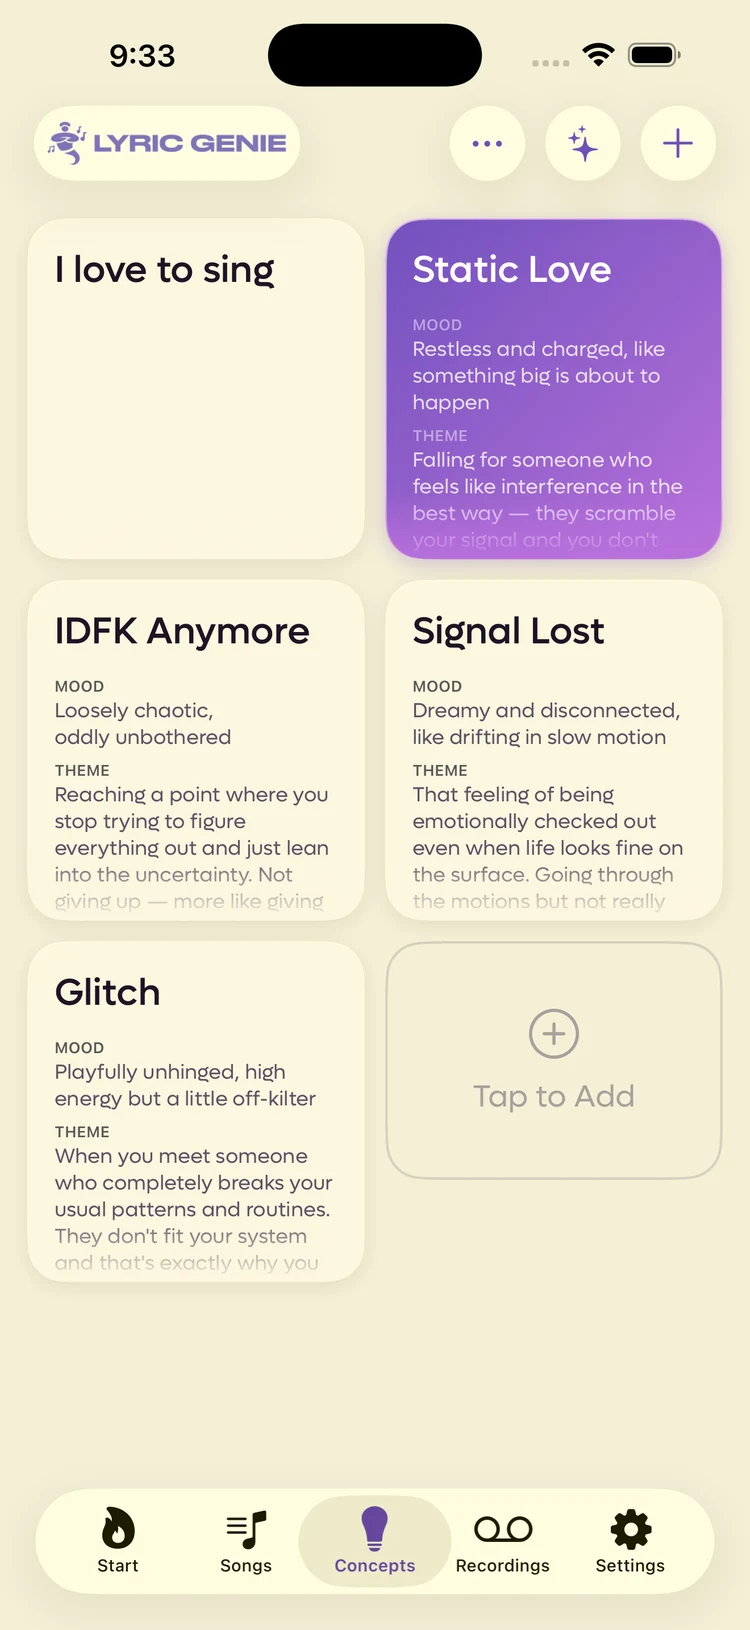
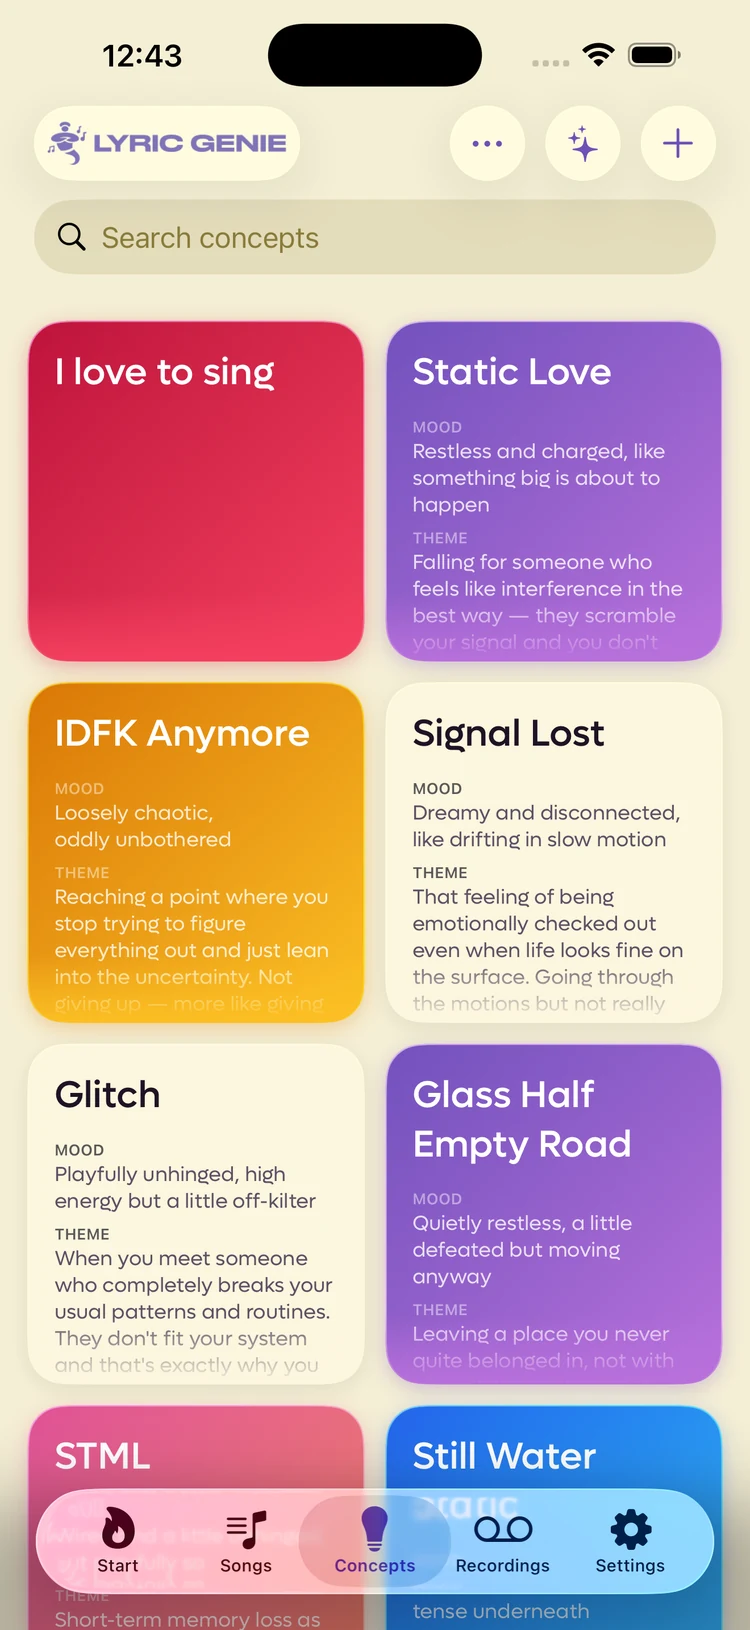
docs: Freestyle access points, Import, RhymeGold, concept colours

diff --git a/public/docs/objects/concepts/index.html b/public/docs/objects/concepts/index.html
@@ -104,23 +104,23 @@ of real work in progress.</p>
 <h2 id="writing-one">Writing one<a class="hanchor" href="#writing-one" aria-label="Link to this section">#</a></h2>
 <p>Tap <strong>+</strong> on the Concepts tab and a blank card appears in place, with the four
 fields on it.</p>
-<figure class="fig" style="max-width:min(23rem, 330px)">
+<figure class="fig" style="max-width:min(23rem, 375px)">
   <div class="fig-shot">
-    <img src="/docs/img/concept-new.png" alt="A new blank concept card with Title, Mood, Theme and Similar Artists fields, an X to cancel and a tick to save" width="330" height="717" loading="lazy" decoding="async">
-    <span class="fig-mark" style="left:73%;top:56.5%;width:47%;height:5%;aspect-ratio:auto" aria-label="Only the title is required"><span class="fig-badge">1</span></span>
+    <img src="/docs/img/concept-new.webp" alt="A new blank concept card in orange, with Title, Mood, Theme and Similar Artists fields, an X to cancel and a tick to save" width="375" height="815" loading="lazy" decoding="async">
+    <span class="fig-mark" style="left:74%;top:56%;width:46%;height:5%;aspect-ratio:auto" aria-label="Only the title is required"><span class="fig-badge">1</span></span>
   </div>
   <ol class="fig-legend"><li><span class="fig-key">1</span>Only the title is required</li></ol>
-  <figcaption>The placeholders are worth reading. They set the length these fields want.</figcaption>
+  <figcaption>It arrives in the next colour along, so you never have to pick one.</figcaption>
 </figure>
 <p>Only the title is required. Whatever you fill in carries across when the concept
 becomes a song, and lands in that song's AI Context.</p>
 <h2 id="letting-the-app-write-them">Letting the app write them<a class="hanchor" href="#letting-the-app-write-them" aria-label="Link to this section">#</a></h2>
 <p>The sparkle button in the top right generates concepts from what you have
 already written.</p>
-<figure class="fig" style="max-width:min(23rem, 330px)">
+<figure class="fig" style="max-width:min(23rem, 375px)">
   <div class="fig-shot">
-    <img src="/docs/img/generate-concepts.png" alt="The generate concepts sheet with an optional description field, switches for learning from existing songs and concepts, and a stepper for how many to generate" width="330" height="717" loading="lazy" decoding="async">
-    <span class="fig-mark" style="left:50%;top:60%;width:90%;height:10%;aspect-ratio:auto" aria-label="Say what you are after, or leave it blank"><span class="fig-badge">1</span></span><span class="fig-mark" style="left:50%;top:73%;width:90%;height:9%;aspect-ratio:auto" aria-label="What it reads to learn your taste"><span class="fig-badge">2</span></span><span class="fig-mark" style="left:50%;top:82%;width:90%;height:5%;aspect-ratio:auto" aria-label="Four by default"><span class="fig-badge">3</span></span>
+    <img src="/docs/img/generate-concepts.webp" alt="The Generate Concepts sheet, with an optional description field, switches for learning from existing songs and concepts, and a stepper for how many to generate" width="375" height="815" loading="lazy" decoding="async">
+    <span class="fig-mark" style="left:50%;top:35.3%;width:90%;height:13%;aspect-ratio:auto" aria-label="Say what you are after, or leave it blank"><span class="fig-badge">1</span></span><span class="fig-mark" style="left:50%;top:57.3%;width:90%;height:16%;aspect-ratio:auto" aria-label="What it reads to learn your taste"><span class="fig-badge">2</span></span><span class="fig-mark" style="left:50%;top:73.6%;width:90%;height:7%;aspect-ratio:auto" aria-label="Four by default"><span class="fig-badge">3</span></span>
   </div>
   <ol class="fig-legend"><li><span class="fig-key">1</span>Say what you are after, or leave it blank</li><li><span class="fig-key">2</span>What it reads to learn your taste</li><li><span class="fig-key">3</span>Four by default</li></ol>
   <figcaption>Leaving the description empty is fine. The switches do most of the work.</figcaption>
@@ -128,18 +128,18 @@ already written.</p>
 <p><strong>Learn what I like from my existing songs</strong> is on by default, and it is what
 makes the results sound like you rather than like nobody. Turn it off and you
 get generic ideas.</p>
-<figure class="fig" style="max-width:min(23rem, 330px)">
+<figure class="fig" style="max-width:min(23rem, 375px)">
   <div class="fig-shot">
-    <img src="/docs/img/concepts-generated.png" alt="The Concepts tab after generating, showing four new cards each with a mood and a theme" width="330" height="717" loading="lazy" decoding="async">
+    <img src="/docs/img/concepts-generated.webp" alt="The Concepts tab after generating, showing four new cards in four different colours, each with a mood and a theme" width="375" height="815" loading="lazy" decoding="async">
   </div>
-  <figcaption>Four concepts generated from one song. Each arrives with a mood and a theme already filled in.</figcaption>
+  <figcaption>Four generated from one song, each with a mood, a theme and the next colour along.</figcaption>
 </figure>
 <h2 id="reading-and-using-one">Reading and using one<a class="hanchor" href="#reading-and-using-one" aria-label="Link to this section">#</a></h2>
 <p>Tap a card and it expands to show the whole thing, with the actions underneath.</p>
-<figure class="fig" style="max-width:min(23rem, 330px)">
+<figure class="fig" style="max-width:min(23rem, 375px)">
   <div class="fig-shot">
-    <img src="/docs/img/concept-expanded.png" alt="An expanded concept card showing mood, theme and similar artists, with a pencil button and a New Song button below it" width="330" height="717" loading="lazy" decoding="async">
-    <span class="fig-mark" style="left:91%;top:22%;width:13%" aria-label="Edit the fields"><span class="fig-badge">1</span></span><span class="fig-mark" style="left:66%;top:57.3%;width:30%;height:5%;aspect-ratio:auto" aria-label="Turn it into a song"><span class="fig-badge">2</span></span><span class="fig-mark" style="left:86%;top:57.3%;width:8%" aria-label="Colour tag"><span class="fig-badge">3</span></span>
+    <img src="/docs/img/concept-expanded.webp" alt="An expanded blue concept card showing mood, theme and similar artists, with a pencil button and a New Song button below it" width="375" height="815" loading="lazy" decoding="async">
+    <span class="fig-mark" style="left:91%;top:40.6%;width:11%" aria-label="Edit the fields"><span class="fig-badge">1</span></span><span class="fig-mark" style="left:66%;top:77%;width:30%;height:5%;aspect-ratio:auto" aria-label="Turn it into a song"><span class="fig-badge">2</span></span><span class="fig-mark" style="left:86%;top:77%;width:8%" aria-label="Colour tag"><span class="fig-badge">3</span></span>
   </div>
   <ol class="fig-legend"><li><span class="fig-key">1</span>Edit the fields</li><li><span class="fig-key">2</span>Turn it into a song</li><li><span class="fig-key">3</span>Colour tag</li></ol>
   <figcaption>New Song carries the title, mood, theme and artists across.</figcaption>
@@ -147,8 +147,11 @@ get generic ideas.</p>
 <p><strong>New Song</strong> is the point of the whole tab. The new song opens with its AI
 Context already filled in, so the writing tools have something to work with from
 the first line you type.</p>
-<p>The circle beside it colour-tags the card, which is only for sorting the grid
-visually.</p>
+<p>The circle beside it is the card's colour. You do not have to set one: every
+new concept takes the next colour along from the last one you made, and a
+generated batch walks the same seven, so a full tab reads as a grid of colours
+without anyone choosing them. Tap the circle to step that card on to the next
+colour yourself. It is purely visual — nothing sorts or filters by it.</p>
 <h2 id="where-else-concepts-come-from">Where else concepts come from<a class="hanchor" href="#where-else-concepts-come-from" aria-label="Link to this section">#</a></h2>
 <p>Press and hold any song in the Songs tab and you get two more routes.</p>
 <ul>

diff --git a/public/docs/guides/freestyle/index.html b/public/docs/guides/freestyle/index.html
@@ -99,9 +99,25 @@ lyrics. It is built for the moment where the melody arrives before the words do.
 <p><strong>From the Start tab.</strong> Tapping Freestyle starts recording immediately. You
 tapped the button because you had something to sing, and making you tap a second
 time loses the take.</p>
+<figure class="fig" style="max-width:min(23rem, 375px)">
+  <div class="fig-shot">
+    <img src="/docs/img/freestyle-from-start.webp" alt="The four round buttons on the Start tab, with Freestyle at the top right" width="375" height="405" loading="lazy" decoding="async">
+    <span class="fig-mark" style="left:68%;top:47.4%;width:35%" aria-label="Recording starts the moment you tap"><span class="fig-badge">1</span></span>
+  </div>
+  <ol class="fig-legend"><li><span class="fig-key">1</span>Recording starts the moment you tap</li></ol>
+  <figcaption>The Start tab. This one does not wait for you.</figcaption>
+</figure>
 <p><strong>From inside a song.</strong> The microphone icon in the song editor opens Freestyle
 ready but not recording. You are already in a writing session, so the app waits
 for you.</p>
+<figure class="fig" style="max-width:min(23rem, 375px)">
+  <div class="fig-shot">
+    <img src="/docs/img/freestyle-from-song.webp" alt="The top bar of the song editor, the microphone at the right of the audio capsule" width="375" height="149" loading="lazy" decoding="async">
+    <span class="fig-mark" style="left:58%;top:14.6%;width:9%" aria-label="Opens ready, and waits for you to start"><span class="fig-badge">1</span></span>
+  </div>
+  <ol class="fig-legend"><li><span class="fig-key">1</span>Opens ready, and waits for you to start</li></ol>
+  <figcaption>The microphone sits with the other audio controls, above the title.</figcaption>
+</figure>
 <aside class="callout callout-tip">
 <p class="callout-title"><span class="callout-icon"><svg viewBox="0 0 24 24" fill="none" stroke="currentColor" stroke-linecap="round" stroke-linejoin="round" aria-hidden="true"><path d="M15 14c.2-1 .7-1.7 1.5-2.5 1-.9 1.5-2.2 1.5-3.5A6 6 0 0 0 6 8c0 1 .2 2.2 1.5 3.5.7.7 1.3 1.5 1.5 2.5"/><path d="M9 18h6"/><path d="M10 22h4"/></svg></span>Tip</p>
 <div class="callout-body">
@@ -158,7 +174,7 @@ bar: the purple is what has not been looked at yet.</p>
 </tr>
 <tr>
 <td><strong>Import</strong></td>
-<td>Brings in an audio file instead. See <a href="/docs/guides/importing/">Importing files</a>.</td>
+<td>Adds an audio file onto the end of the take.</td>
 </tr>
 <tr>
 <td><span class="inline-icon" style="--icon:url('/docs/sf-symbols/sparkles.svg')" aria-hidden="true"></span> <strong>Refine</strong></td>
@@ -170,6 +186,23 @@ bar: the purple is what has not been looked at yet.</p>
 </tr>
 </tbody>
 </table></div>
+<p><strong>Import adds to the take rather than replacing it.</strong> The file goes on the end
+as another segment, its words are transcribed and appended below the lines you
+already have, and the result is still one recording. You can carry on recording
+on top of it, and Undo takes the import back out again.</p>
+<p>Tapping Import part way through a take pauses the recording first, so the file
+lands after what you sang rather than behind it. If you had not sung anything
+yet, that silent take is thrown away instead of being left as dead air in front
+of the import.</p>
+<aside class="callout callout-note">
+<p class="callout-title"><span class="callout-icon"><svg viewBox="0 0 24 24" fill="none" stroke="currentColor" stroke-linecap="round" stroke-linejoin="round" aria-hidden="true"><circle cx="12" cy="12" r="10"/><path d="M12 16v-4"/><path d="M12 8h.01"/></svg></span>Note</p>
+<div class="callout-body">
+<p>This is not the same as <a href="/docs/guides/importing/">Importing files</a>, which puts an
+audio file into the song as a recording of its own. Here the file becomes part
+of the Freestyle take you are building, so it is capped at the same length as a
+take, and like Refine it needs AI access.</p>
+</div>
+</aside>
 <h2 id="what-refine-does">What Refine does<a class="hanchor" href="#what-refine-does" aria-label="Link to this section">#</a></h2>
 <p>Refine is a tidy-up, not a rewrite. It goes through the transcription and
 swaps only the words that do not work, keeping the same number of lines and

diff --git a/public/docs/editor/rhymes/index.html b/public/docs/editor/rhymes/index.html
@@ -186,6 +186,17 @@ the upgrade screen.</strong> The rhyme sheet itself is free, and so is everythin
 on it. Only the picks need Pro.</p>
 </div>
 </aside>
+<h2 id="trying-it-without-the-app">Trying it without the app<a class="hanchor" href="#trying-it-without-the-app" aria-label="Link to this section">#</a></h2>
+<p><a href="https://rhymegold.com">RhymeGold</a> is a free web version of this rhyme sheet,
+and it is the quickest way to get a feel for how the anchors and the columns
+behave before you commit to a line. It runs the same engine over the same
+dictionary: type a phrase and you get the same syllable anchors, the same
+<strong>Slant</strong> switch, and the same combination columns with their counts.</p>
+<p>The one thing it does not do is <strong>AI picks</strong>. Those read your song's mood, theme
+and lyrics to decide what is worth your attention, and none of that exists on a
+web page, so they stay in the app.</p>
+<p>No sign-up, and it works on a desktop browser, which makes it handy for a
+writing session where the phone is not the thing you are typing into.</p>
 <h2 id="taking-a-word">Taking a word<a class="hanchor" href="#taking-a-word" aria-label="Link to this section">#</a></h2>
 <p>Tap a word to pick it, and the <strong>Insert</strong> button at the top right wakes up.
 The chevron beside it opens the other options.</p>
@@ -221,7 +232,7 @@ you already looked up today is free and does not count again. Details on
   </main>
   <nav class="toc" aria-label="On this page">
          <p class="toc-title">On this page</p>
-         <ul><li><a href="#opening-it">Opening it</a></li><li><a href="#the-anchors">The anchors</a></li><li><a href="#the-columns">The columns</a></li><li><a href="#how-close-a-rhyme-is">How close a rhyme is</a></li><li><a href="#ai-picks">AI picks</a></li><li><a href="#taking-a-word">Taking a word</a></li><li><a href="#looking-up-more-than-one-word">Looking up more than one word</a></li></ul>
+         <ul><li><a href="#opening-it">Opening it</a></li><li><a href="#the-anchors">The anchors</a></li><li><a href="#the-columns">The columns</a></li><li><a href="#how-close-a-rhyme-is">How close a rhyme is</a></li><li><a href="#ai-picks">AI picks</a></li><li><a href="#trying-it-without-the-app">Trying it without the app</a></li><li><a href="#taking-a-word">Taking a word</a></li><li><a href="#looking-up-more-than-one-word">Looking up more than one word</a></li></ul>
        </nav>
 </div>
 

diff --git a/public/docs/tabs/concepts/index.html b/public/docs/tabs/concepts/index.html
@@ -99,11 +99,11 @@ that shape a song before you write a single word.</p>
 alongside real work in progress.</p>
 <figure class="fig" style="max-width:min(23rem, 375px)">
   <div class="fig-shot">
-    <img src="/docs/img/concepts-tab.webp" alt="The Concepts tab, a grid of cards each showing a title, a mood and a theme, with a search field above" width="375" height="815" loading="lazy" decoding="async">
-    <span class="fig-mark" style="left:84%;top:9%;width:30%;height:5%;aspect-ratio:auto" aria-label="Write one, or have them generated"><span class="fig-badge">1</span></span><span class="fig-mark" style="left:26%;top:24%;width:45%;height:20%;aspect-ratio:auto" aria-label="Tap a card to open it out"><span class="fig-badge">2</span></span>
+    <img src="/docs/img/concepts-tab.webp" alt="The Concepts tab, a grid of colour-tagged cards each showing a title, a mood and a theme, with a search field above" width="375" height="815" loading="lazy" decoding="async">
+    <span class="fig-mark" style="left:84%;top:9%;width:30%;height:5%;aspect-ratio:auto" aria-label="Write one, or have them generated"><span class="fig-badge">1</span></span><span class="fig-mark" style="left:74%;top:30%;width:46%;height:22%;aspect-ratio:auto" aria-label="Tap a card to open it out"><span class="fig-badge">2</span></span>
   </div>
   <ol class="fig-legend"><li><span class="fig-key">1</span>Write one, or have them generated</li><li><span class="fig-key">2</span>Tap a card to open it out</li></ol>
-  <figcaption>A card grid, newest first, with a search field for when it gets long.</figcaption>
+  <figcaption>A card grid, newest first. Each new concept takes the next colour along.</figcaption>
 </figure>
 <p>Each card is a title plus a mood, a theme and some similar artists. Tap one and
 it expands to show the whole thing, with a button to turn it into a song.</p>
